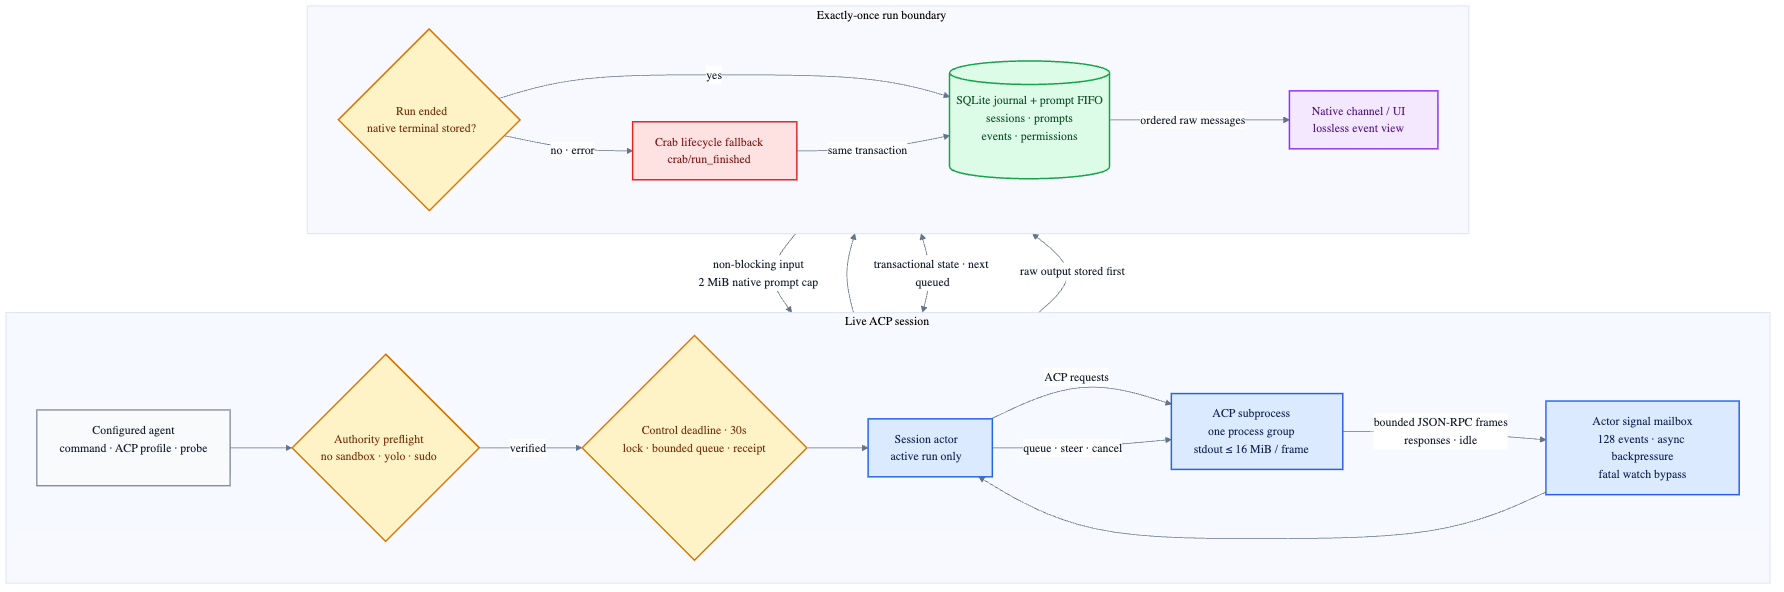
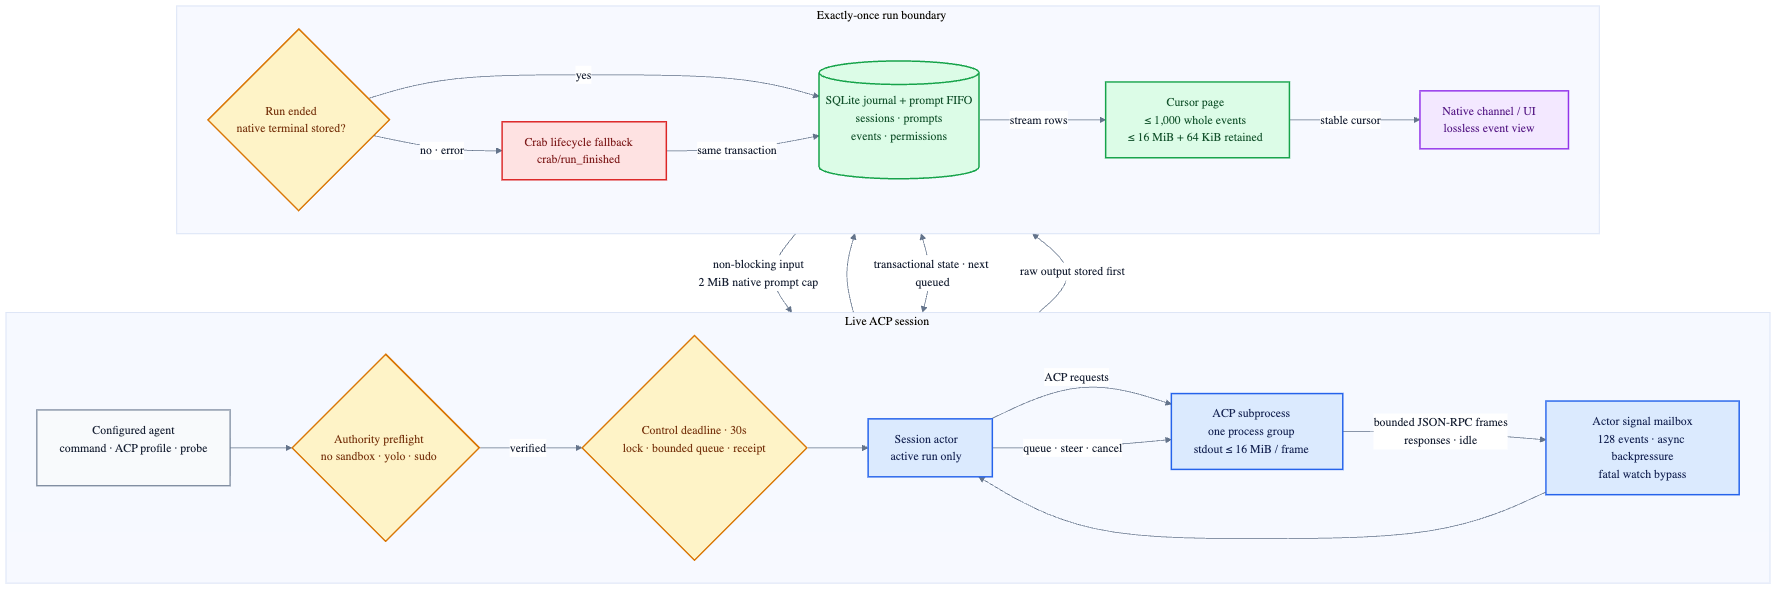
fix(v2): byte-bound agent event pages

Changed region(s): [[0.0925, 0.0608, 0.8941, 0.3649]]

diff --git a/v2/agent-host/implementation/src/store.rs b/v2/agent-host/implementation/src/store.rs
@@ -1,4 +1,4 @@
-use std::{path::Path, sync::Mutex};
+use std::{mem::size_of, path::Path, sync::Mutex};
 
 use rusqlite::{Connection, OptionalExtension, Transaction, TransactionBehavior, params};
 use serde_json::Value;
@@ -7,13 +7,15 @@ use crate::{
     AcpEvent, AcpEventDirection, AcpEventKind, AcpNegotiation, AcpProtocolProfile, AgentDiagnostic,
     AgentDiagnosticKind, AgentDiagnosticPage, AgentHostError, AgentInputMode, AgentLifecycle,
     AgentSession, AgentSessionCatalog, AgentSessionSummary, AuthorityAttestation,
-    CompactionReporting, EventPage, FilesystemAuthority, NetworkAuthority, PermissionAuthority,
-    PermissionDecision, PermissionResolution, PromptAccepted, PromptDisposition, PromptRequest,
-    RootAuthority, SandboxAuthority, SessionStatus, SteeringSupport,
+    CompactionReporting, EventPage, FilesystemAuthority, MAX_NATIVE_EVENT_BYTES, NetworkAuthority,
+    PermissionAuthority, PermissionDecision, PermissionResolution, PromptAccepted,
+    PromptDisposition, PromptRequest, RootAuthority, SandboxAuthority, SessionStatus,
+    SteeringSupport,
 };
 
 const SCHEMA_VERSION: i64 = 3;
 const MAX_EVENT_PAGE: u64 = 1_000;
+const MAX_EVENT_PAGE_BYTES: usize = MAX_NATIVE_EVENT_BYTES + 64 * 1024;
 const MAX_DIAGNOSTIC_PAGE: u64 = 256;
 const MAX_RETAINED_DIAGNOSTICS: u64 = 512;
 const MAX_DIAGNOSTIC_MESSAGE_BYTES: usize = 16 * 1024;
@@ -737,6 +739,7 @@ impl AgentStore {
         line: &str,
         now_ms: u64,
     ) -> Result<(), AgentHostError> {
+        validate_native_event_bytes(line.len())?;
         let parsed = serde_json::from_str::<Value>(line).ok();
         let kind = classify_event(parsed.as_ref());
         let mut connection = self.lock()?;
@@ -803,7 +806,17 @@ impl AgentStore {
         after_sequence: u64,
         limit: u64,
     ) -> Result<EventPage, AgentHostError> {
-        if limit > MAX_EVENT_PAGE {
+        self.read_events_with_byte_limit(session_id, after_sequence, limit, MAX_EVENT_PAGE_BYTES)
+    }
+
+    fn read_events_with_byte_limit(
+        &self,
+        session_id: &str,
+        after_sequence: u64,
+        limit: u64,
+        byte_limit: usize,
+    ) -> Result<EventPage, AgentHostError> {
+        if limit == 0 || limit > MAX_EVENT_PAGE {
             return Err(AgentHostError::InvalidCursor);
         }
         let connection = self.lock()?;
@@ -822,44 +835,53 @@ impl AgentStore {
         }
         let mut statement = connection
             .prepare(
-                "SELECT sequence, run_id, observed_at_ms, kind, direction, native_event_json
+                "SELECT sequence, run_id, observed_at_ms, kind, direction,
+                        length(CAST(native_event_json AS BLOB)), native_event_json
                  FROM events WHERE session_id = ?1 AND sequence > ?2
                  ORDER BY sequence ASC LIMIT ?3",
             )
             .map_err(storage_error)?;
-        let rows = statement
-            .query_map(
-                params![session_id, db_i64(after_sequence)?, db_i64(limit)?],
-                |row| {
-                    Ok((
-                        row.get::<_, i64>(0)?,
-                        row.get::<_, Option<String>>(1)?,
-                        row.get::<_, i64>(2)?,
-                        row.get::<_, String>(3)?,
-                        row.get::<_, String>(4)?,
-                        row.get::<_, String>(5)?,
-                    ))
-                },
-            )
-            .map_err(storage_error)?
-            .collect::<rusqlite::Result<Vec<_>>>()
+        let mut rows = statement
+            .query(params![session_id, db_i64(after_sequence)?, db_i64(limit)?])
             .map_err(storage_error)?;
-        let events = rows
-            .into_iter()
-            .map(
-                |(sequence, run_id, observed_at_ms, kind, direction, native_event_json)| {
-                    Ok(AcpEvent {
-                        session_id: session_id.to_owned(),
-                        run_id,
-                        sequence: db_u64(sequence)?,
-                        observed_at_ms: db_u64(observed_at_ms)?,
-                        kind: parse_event_kind(&kind)?,
-                        direction: parse_direction(&direction)?,
-                        native_event_json,
-                    })
-                },
-            )
-            .collect::<Result<Vec<_>, AgentHostError>>()?;
+        let mut events = Vec::new();
+        let mut retained_bytes = 0_usize;
+        while let Some(row) = rows.next().map_err(storage_error)? {
+            let sequence = db_u64(row.get::<_, i64>(0).map_err(storage_error)?)?;
+            let run_id = row.get::<_, Option<String>>(1).map_err(storage_error)?;
+            let observed_at_ms = db_u64(row.get::<_, i64>(2).map_err(storage_error)?)?;
+            let kind = row.get::<_, String>(3).map_err(storage_error)?;
+            let direction = row.get::<_, String>(4).map_err(storage_error)?;
+            let native_event_bytes =
+                usize::try_from(db_u64(row.get::<_, i64>(5).map_err(storage_error)?)?)
+                    .map_err(|_| AgentHostError::StorageUnavailable)?;
+            validate_native_event_bytes(native_event_bytes)?;
+            let event_bytes =
+                retained_event_bytes(session_id, run_id.as_deref(), native_event_bytes)?;
+            let next_retained_bytes = retained_bytes
+                .checked_add(event_bytes)
+                .ok_or(AgentHostError::StorageUnavailable)?;
+            if next_retained_bytes > byte_limit {
+                if events.is_empty() {
+                    return Err(AgentHostError::InvalidNativePayload);
+                }
+                break;
+            }
+            let native_event_json = row.get::<_, String>(6).map_err(storage_error)?;
+            if native_event_json.len() != native_event_bytes {
+                return Err(AgentHostError::StorageUnavailable);
+            }
+            events.push(AcpEvent {
+                session_id: session_id.to_owned(),
+                run_id,
+                sequence,
+                observed_at_ms,
+                kind: parse_event_kind(&kind)?,
+                direction: parse_direction(&direction)?,
+                native_event_json,
+            });
+            retained_bytes = next_retained_bytes;
+        }
         let next_sequence = events.last().map_or(after_sequence, |event| event.sequence);
         Ok(EventPage {
             events,
@@ -1063,6 +1085,25 @@ impl AgentStore {
             .lock()
             .map_err(|_| AgentHostError::StorageUnavailable)
     }
+}
+
+fn validate_native_event_bytes(bytes: usize) -> Result<(), AgentHostError> {
+    if bytes > MAX_NATIVE_EVENT_BYTES {
+        return Err(AgentHostError::InvalidNativePayload);
+    }
+    Ok(())
+}
+
+fn retained_event_bytes(
+    session_id: &str,
+    run_id: Option<&str>,
+    native_event_bytes: usize,
+) -> Result<usize, AgentHostError> {
+    size_of::<AcpEvent>()
+        .checked_add(session_id.len())
+        .and_then(|bytes| bytes.checked_add(run_id.map_or(0, str::len)))
+        .and_then(|bytes| bytes.checked_add(native_event_bytes))
+        .ok_or(AgentHostError::StorageUnavailable)
 }
 
 struct StoredPrompt {
@@ -1579,12 +1620,13 @@ mod tests {
     use rusqlite::Connection;
 
     use crate::{
-        AcpProtocolProfile, AgentDiagnosticKind, AgentInputMode, AgentLifecycle, PromptDisposition,
-        PromptRequest,
+        AcpEventDirection, AcpProtocolProfile, AgentDiagnosticKind, AgentHostError, AgentInputMode,
+        AgentLifecycle, MAX_NATIVE_EVENT_BYTES, PromptDisposition, PromptRequest,
     };
 
     use super::{
         AgentStore, MAX_DIAGNOSTIC_MESSAGE_BYTES, SCHEMA_VERSION, authority, migrate_v0_to_v1,
+        retained_event_bytes, validate_native_event_bytes,
     };
 
     #[test]
@@ -1626,6 +1668,92 @@ mod tests {
             )
             .expect("diagnostics table exists");
         assert_eq!(diagnostic_table, "diagnostics");
+    }
+
+    #[test]
+    fn event_pages_stop_at_whole_event_boundaries_and_resume_from_the_cursor() {
+        let store = AgentStore::open_in_memory().expect("store opens");
+        store
+            .create_starting_session(
+                "session-1",
+                "agent-1",
+                "/workspace",
+                "{}",
+                &AcpProtocolProfile::V1Stable,
+                &authority(1, "{}".into()),
+                1,
+            )
+            .expect("session starts");
+        let lines = [
+            r#"{"jsonrpc":"2.0","id":1}"#,
+            r#"{"jsonrpc":"2.0","id":2}"#,
+            r#"{"jsonrpc":"2.0","id":3}"#,
+        ];
+        for (index, line) in lines.iter().enumerate() {
+            store
+                .record_native_line(
+                    "session-1",
+                    AcpEventDirection::AgentToClient,
+                    line,
+                    u64::try_from(index + 2).expect("timestamp fits"),
+                )
+                .expect("event records");
+        }
+        let one_event =
+            retained_event_bytes("session-1", None, lines[0].len()).expect("event size is bounded");
+
+        let first = store
+            .read_events_with_byte_limit("session-1", 0, 1_000, one_event * 2)
+            .expect("first byte-bounded page reads");
+        assert_eq!(first.events.len(), 2);
+        assert_eq!(first.next_sequence, 2);
+        assert!(!first.caught_up);
+        assert_eq!(first.events[0].native_event_json, lines[0]);
+        assert_eq!(first.events[1].native_event_json, lines[1]);
+
+        let second = store
+            .read_events_with_byte_limit("session-1", first.next_sequence, 1_000, one_event * 2)
+            .expect("omitted whole event is retryable");
+        assert_eq!(second.events.len(), 1);
+        assert_eq!(second.events[0].native_event_json, lines[2]);
+        assert_eq!(second.next_sequence, 3);
+        assert!(second.caught_up);
+    }
+
+    #[test]
+    fn event_page_boundaries_fail_closed_without_non_progressing_successes() {
+        let store = AgentStore::open_in_memory().expect("store opens");
+        store
+            .create_starting_session(
+                "session-1",
+                "agent-1",
+                "/workspace",
+                "{}",
+                &AcpProtocolProfile::V1Stable,
+                &authority(1, "{}".into()),
+                1,
+            )
+            .expect("session starts");
+        let line = r#"{"jsonrpc":"2.0","id":1}"#;
+        store
+            .record_native_line("session-1", AcpEventDirection::AgentToClient, line, 2)
+            .expect("event records");
+        let event_bytes =
+            retained_event_bytes("session-1", None, line.len()).expect("event size is bounded");
+
+        assert_eq!(
+            store.read_events("session-1", 0, 0),
+            Err(AgentHostError::InvalidCursor)
+        );
+        assert_eq!(
+            store.read_events_with_byte_limit("session-1", 0, 1, event_bytes - 1),
+            Err(AgentHostError::InvalidNativePayload)
+        );
+        assert!(validate_native_event_bytes(MAX_NATIVE_EVENT_BYTES).is_ok());
+        assert_eq!(
+            validate_native_event_bytes(MAX_NATIVE_EVENT_BYTES + 1),
+            Err(AgentHostError::InvalidNativePayload)
+        );
     }
 
     #[test]

diff --git a/v2/agent-host/implementation/src/actor.rs b/v2/agent-host/implementation/src/actor.rs
@@ -16,13 +16,12 @@ use crate::{
     AcpEventDirection, AcpNegotiation, AgentDiagnosticKind, AgentHostError, AgentInputMode,
     AgentLifecycle, AgentSession, CRAB_AGENT_ID_ENV, CRAB_PARENT_SESSION_ID_ENV,
     CRAB_SESSION_ID_ENV, CRAB_STATE_DIRECTORY_ENV, CRAB_SUB_AGENT_ID_ENV,
-    CRAB_WORKING_DIRECTORY_ENV, ConfiguredAgent, ConfiguredMcpServer, OperationReceipt,
-    PromptAccepted, PromptDisposition, PromptRequest, store::AgentStore,
+    CRAB_WORKING_DIRECTORY_ENV, ConfiguredAgent, ConfiguredMcpServer, MAX_NATIVE_EVENT_BYTES,
+    OperationReceipt, PromptAccepted, PromptDisposition, PromptRequest, store::AgentStore,
 };
 
 const MAX_NATIVE_PROMPT_BYTES: usize = 2 * 1024 * 1024;
-const MAX_ACP_STDOUT_FRAME_BYTES: usize = 16 * 1024 * 1024;
-const _: () = assert!(MAX_ACP_STDOUT_FRAME_BYTES == DEFAULT_LINE_LIMIT);
+const _: () = assert!(MAX_NATIVE_EVENT_BYTES == DEFAULT_LINE_LIMIT);
 
 #[derive(Debug, Clone, Serialize, Deserialize, JsonRpcRequest)]
 #[request(method = "_session/steering", response = SessionSteeringResponse)]
@@ -455,7 +454,7 @@ fn instrumented_process(
     signals: ActorSignalSender,
 ) -> AcpAgent {
     let process =
-        AcpAgent::new(agent.process_config()).with_stdout_line_limit(MAX_ACP_STDOUT_FRAME_BYTES);
+        AcpAgent::new(agent.process_config()).with_stdout_line_limit(MAX_NATIVE_EVENT_BYTES);
     process.with_debug(move |line, direction| {
         let direction = match direction {
             LineDirection::Stdin => AcpEventDirection::ClientToAgent,

diff --git a/v2/agent-host/implementation/src/lib.rs b/v2/agent-host/implementation/src/lib.rs
@@ -37,6 +37,7 @@ pub(crate) const MAX_AGENT_IDENTIFIER_BYTES: usize = 256;
 const MAX_WORKING_DIRECTORY_BYTES: usize = 4 * 1024;
 const MAX_SESSION_METADATA_BYTES: usize = 64 * 1024;
 const MAX_BOOTSTRAP_PROMPT_BYTES: usize = 2 * 1024 * 1024;
+pub(crate) const MAX_NATIVE_EVENT_BYTES: usize = 16 * 1024 * 1024;
 
 pub(crate) type Clock = Arc<dyn Fn() -> Result<u64, AgentHostError> + Send + Sync>;
 

diff --git a/v2/docs/agent-host-storage.md b/v2/docs/agent-host-storage.md
@@ -29,8 +29,11 @@ database, which is also the durable operator/UI view.
   ingress rejects payloads over 2 MiB before JSON parsing or durable storage; larger media uses
   resource links or content handles.
 - Native stdin/stdout JSON-RPC lines are stored byte-for-byte with direction and per-session order.
-  Agent stdout is framed before parsing or journaling with a 16 MiB per-line ceiling; overflow
-  fails the transport and tears down its process group instead of growing memory without bound.
+  Every journaled line is rejected above 16 MiB before parsing or persistence. Agent stdout is
+  framed at the same ceiling; overflow fails the transport and tears down its process group.
+- Event reads accept counts from 1 through 1,000 and stream SQLite rows into a page capped at
+  16 MiB plus 64 KiB of retained event data. The host never splits a native event: it leaves the
+  cursor at the last returned sequence so the omitted event is the first item on the next read.
 - Adapter stderr never becomes a native event. The newest 512 private diagnostics per session are
   retained separately with 16 KiB message caps and monotonic cursors; explicit operator reads are
   described in [Private agent diagnostics](agent-diagnostics.md).

diff --git a/v2/README.md b/v2/README.md
@@ -65,8 +65,9 @@ interrupt as a separate explicit action.
   event cursor while revalidating authority,
   MCP tools and required policy; it never replays bootstrap or owns compaction. Graceful runtime
   shutdown detaches the host-owned live set without native close, while explicit close remains
-  destructive. ACP stdout frames are rejected above 16 MiB before parsing or journaling; bounded
-  adapter stderr and terminal causes remain available only through the
+  destructive. Every journaled ACP frame is rejected above 16 MiB before parsing or persistence;
+  event reads stream whole rows into pages capped at 1,000 events and 16 MiB plus bounded envelope
+  overhead. Bounded adapter stderr and terminal causes remain available only through the
   owner-authenticated `crab-v2-agent` operator CLI. See the
   [private diagnostics](docs/agent-diagnostics.md), [session admission](docs/agent-session-admission.png),
   [resume flow](docs/agent-session-resume.md) and
